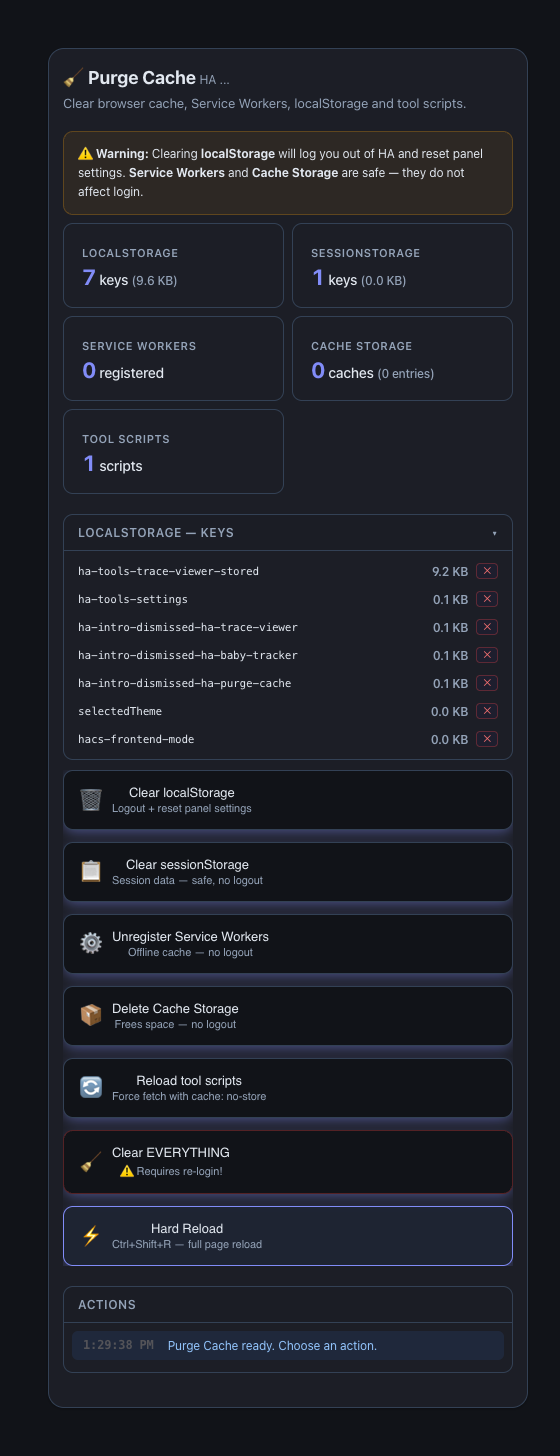
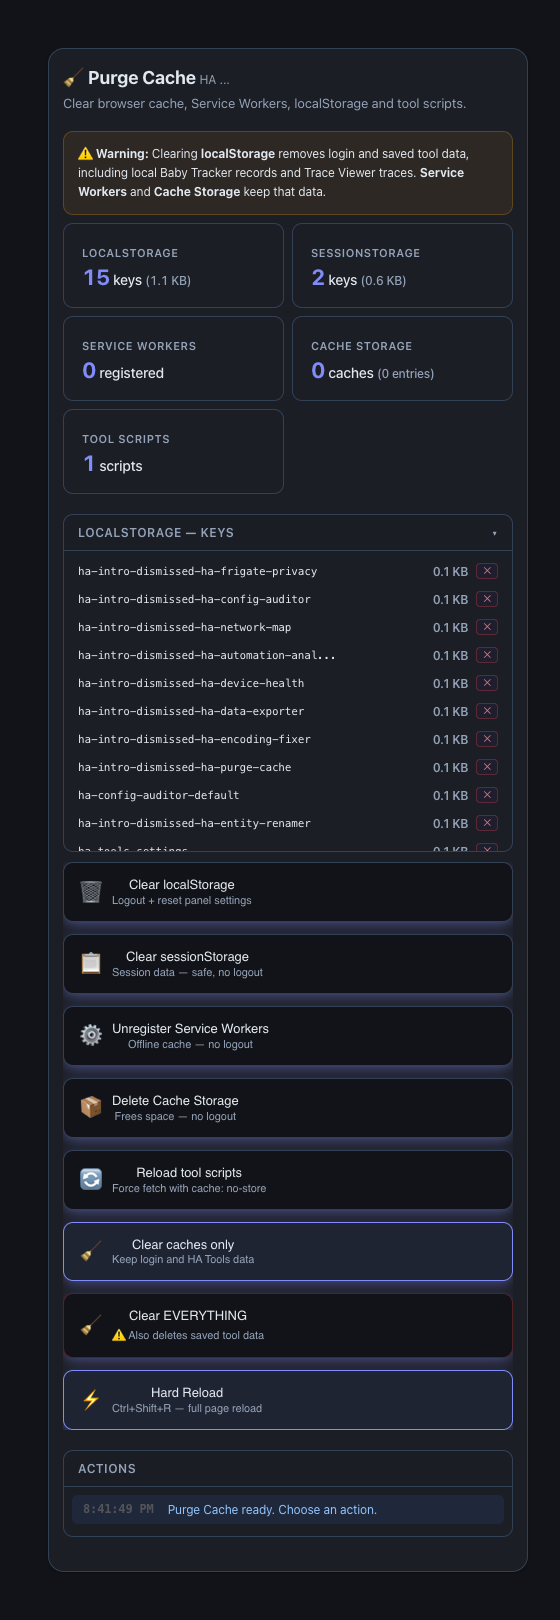
Refresh current tool screenshots and descriptions

Changed region(s): [[0.0911, 0.0309, 0.9411, 0.9581], [0.5161, 0.1545, 0.7589, 0.2782], [0.7589, 0.34, 0.9107, 0.5254]]

diff --git a/README.md b/README.md
@@ -38,8 +38,9 @@ force-reload HA Tools scripts — from a Lovelace card.
 |---|---|
 | ![Main view, light theme](docs/screenshots/card-main-light.png) | ![Main view, dark theme](docs/screenshots/card-main-dark.png) |
 
-*Storage stats, the localStorage key browser and one-click cleanup actions.
-Dark mode follows your Home Assistant theme automatically.*
+*Synthetic browser storage stats, the localStorage key browser, separate
+cache-only action and explicit warning before deleting saved tool data. Dark
+mode follows your Home Assistant theme.*
 
 ## Installation
 
